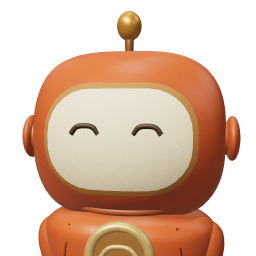
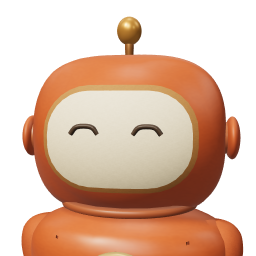
Refine portrait proportions and consolidate warm eye surfaces

diff --git a/src/scene/proxies.ts b/src/scene/proxies.ts
@@ -41,7 +41,7 @@ export function makeProxy(character: Character, kit: SceneKit): THREE.Group {
     characterStroke(kit, parent, color, points, radius, finish);
   const eyes = (parent: THREE.Object3D, separation: number, y: number, z: number, closed = false, color = ink, size = 1) => {
     [-1, 1].forEach(sign => {
-      const eye = closed ? characterEyeArc(kit, parent, color, [sign * separation, y, z], .043 * size, .026 * size)
+      const eye = closed ? characterEyeArc(kit, parent, color, [sign * separation, y, z], .043 * size, .026 * size, wayfinder?'warmInk':'ink')
         : sculpt(parent, 'detail', color, [sign * separation, y, z], [.061 * size, .082 * size, .025 * size], undefined, 'ink');
       data.eyes.push(eye);
       if (!closed) data.highlights.push(sculpt(parent, 'detail', '#fff8df', [sign * separation - .010 * size, y + .020 * size, z + .014 * size], [.015 * size, .019 * size, .007], undefined, 'glaze'));
@@ -57,7 +57,7 @@ export function makeProxy(character: Character, kit: SceneKit): THREE.Group {
   const limbs = (color: string, extremity: string, compact = false, robed = false) => {
     [-1, 1].forEach(sign => {
       if(!robed){
-        const arm = joint(body, sign < 0 ? 'arm_l' : 'arm_r', [sign * (compact ? .30 : .32), .16, 0]);
+        const arm = joint(body, sign < 0 ? 'arm_l' : 'arm_r', [sign * (compact ? .30 : .32), leader ? .26 : .16, 0]);
         sculpt(arm, 'limb', color, [sign * .003, -.13, 0], [compact ? .18 : .205, .37, .22], [0, 0, sign * -.13]);
         sculpt(arm, 'bean', id==='bridge-scout'?color:extremity, [0, -.29, .025], [.18, .18, .20]); data.arms.push(arm);
       }
@@ -87,6 +87,15 @@ export function makeProxy(character: Character, kit: SceneKit): THREE.Group {
       stroke(body, '#bda783', [[-.323, -.32, .235], [-.328, .08, .235], [-.312, .62, .235]], .005, 'clay');
       const facePanel=sculpt(head,'bowedCover','#e6d7b9',[0,-.021,.263],[.48,.31,.011],undefined,'paper');
       fitCharacterRelief(facePanel,cover,.002,.006);
+      const faceOutline:Array<[number,number,number]>=[];
+      for(let cornerIndex=0;cornerIndex<4;cornerIndex++)for(let step=0;step<3;step++){
+        const angle=cornerIndex*Math.PI/2+step*Math.PI/4;
+        const cx=cornerIndex===0||cornerIndex===3?.177:-.177,cy=cornerIndex<2?.075:-.117;
+        faceOutline.push([cx+Math.cos(angle)*.045,cy+Math.sin(angle)*.045,.272]);
+      }
+      faceOutline.push([...faceOutline[0]]);
+      const border=stroke(head,'#beaa89',faceOutline,.0022,'paper');border.name='keeper-face-border';
+      fitCharacterRelief(border,facePanel,.001,.002);
       eyes(head, .112, .018, .276, true, ink, 1.12);
       data.eyes.forEach(eye=>fitCharacterRelief(eye,facePanel,.002,.006));
       const corner=sculpt(head, 'pageCorner', '#fff4da', [.22, .10, .261], [.18, .19, .075], [0, 0, -.12], 'paper');
@@ -152,12 +161,15 @@ export function makeProxy(character: Character, kit: SceneKit): THREE.Group {
       expression.rotation.z=id==='hr-lens'?-.08:id==='hr-relay'?.09:-.01;
       data.head=expression;data.headY=.70;data.bodyY=body.position.y;
     } else {
-      if (leader) { body.position.y = .70; data.bodyY = .70; head.position.y = 1.30; data.headY = 1.30; }
+      // Jarvis's reference is a tall tapered ceramic body under a compact
+      // rounded helmet. Keep the base on its original floor contact while
+      // correcting the silhouette, rather than stretching the whole avatar.
+      if (leader) { body.position.y = .84; data.bodyY = .84; head.position.y = 1.48; data.headY = 1.48; head.scale.set(.84,.80,.86); }
       if (id === 'bridge-scout') {body.position.y=.45;data.bodyY=.45;head.position.y=.89;data.headY=.89;head.scale.set(.86,.92,.92);}
       if (wayfinder) {body.position.y=id==='intake-jarvis'?.535:.49;data.bodyY=body.position.y;head.position.y=id==='intake-jarvis'?1.02:.95;data.headY=head.position.y;}
-      sculpt(body, wayfinder ? 'wayfinderBody' : leader ? 'merchantTorso' : id==='bridge-scout'?'scoutBody':'torso', bodyColor, [0, -.005, 0], [wayfinder ? .85 : leader ? .79 : id==='bridge-scout'?.70:.64, leader ? 1.04 : id === 'intake-jarvis' ? 1.06 : wayfinder ? .96 : id==='bridge-scout' ? .68 : .87, wayfinder ? .64 : leader ? .54 : id==='bridge-scout'?.56:.50], undefined, wayfinder?'clay':'glaze');
-      if(leader) sculpt(body,'merchantBase','#bb673a',[0,-.58,0],[.73,.24,.56],undefined,'glaze');
-      if(leader)sculpt(body,'neckBand','#9d542f',[0,.29,0],[.52,.036,.43],undefined,'glaze');
+      sculpt(body, wayfinder ? 'wayfinderBody' : leader ? 'merchantTorso' : id==='bridge-scout'?'scoutBody':'torso', bodyColor, [0, -.005, 0], [wayfinder ? .85 : leader ? .79 : id==='bridge-scout'?.70:.64, leader ? 1.32 : id === 'intake-jarvis' ? 1.06 : wayfinder ? .96 : id==='bridge-scout' ? .68 : .87, wayfinder ? .64 : leader ? .54 : id==='bridge-scout'?.56:.50], undefined, wayfinder?'clay':'glaze');
+      if(leader) sculpt(body,'merchantBase','#bb673a',[0,-.72,0],[.73,.24,.56],undefined,'glaze');
+      if(leader)sculpt(body,'neckBand','#9d542f',[0,.38,0],[.52,.036,.43],undefined,'glaze');
       if(id==='bridge-scout')sculpt(body,'neckBand','#274b45',[0,.14,0],[.44,.036,.34],undefined,'glaze');
       if(wayfinder)sculpt(body,'neckBand','#b1a58e',[0,.22,0],[.55,.026,.40],undefined,'clay');
       sculpt(body, 'limb', wayfinder ? '#b6aa8c' : bodyColor, [0, .35, 0], [.18, .15, .18]);
@@ -178,7 +190,7 @@ export function makeProxy(character: Character, kit: SceneKit): THREE.Group {
         sculpt(head, 'paperWing', '#d4a05f', [0, .485, -.01], [.13, .24, .13], [0, 0, -.24], 'brass');
         sculpt(head, 'limb', '#527669', [0, .395, 0], [.04, .13, .04], undefined, 'brass');
       } else {
-        if (id === 'intake-compass') [-1, 1].forEach(sign => data.eyes.push(characterEyeArc(kit, head, '#ffe0a0', [sign * .121, .048, .365], .044, -.026)));
+        if (id === 'intake-compass') [-1, 1].forEach(sign => data.eyes.push(characterEyeArc(kit, head, '#ffe0a0', [sign * .121, .048, .365], .044, -.026,'warmInk')));
         else eyes(head, .121, .030, .365, true, wayfinder ? '#ffe0a0' : '#493a2d', leader?1.25:1);
         if(!wayfinder && !leader) characterSmile(kit, head, '#735131', .046, .023, [0, -.068, .365]);
         if (wayfinder) {
@@ -234,6 +246,7 @@ export function makeProxy(character: Character, kit: SceneKit): THREE.Group {
           stroke(body, '#e0bb7a', [[-.085, .11, .29], [-.045, .16, .29], [0, .17, .29], [.045, .16, .29], [.085, .11, .29]], .010);
           stroke(body,'#e0bb7a',[[-.113,.103,.293],[.113,.103,.293]],.007);
           const outline=stroke(body, '#854124', [[-.23,.23,.25],[-.27,-.11,.23],[-.20,-.35,.20],[-.07,-.43,.18],[.07,-.43,.18],[.20,-.35,.20],[.27,-.11,.23],[.23,.23,.25]], .005, 'clay');
+          outline.scale.y=1.32/1.04;
           fitCharacterRelief(outline,body.children[0] as THREE.Mesh,.003,.010);
           sculpt(head, 'limb', '#aa7442', [0, .394, 0], [.04, .14, .04], undefined, 'brass');
           sculpt(head, 'detail', '#d89a48', [0, .495, 0], [.112, .134, .112], undefined, 'brass');
@@ -264,7 +277,7 @@ export function makeProxy(character: Character, kit: SceneKit): THREE.Group {
         fitCharacterRelief(ornament,body.children[0] as THREE.Mesh,id==='intake-compass'?.036:.012);
       }
     }
-    group.scale.setScalar(leader ? 1.06 : id === 'bridge-scout' ? 1.03 : id === 'bridge-keeper' ? .97 : id === 'intake-jarvis' ? 1.16 : wayfinder ? .90 : id==='hr-lens'?.93:id==='hr-relay'?.92:hr ? .99 : 1.10);
+    group.scale.setScalar(leader ? 1.02 : id === 'bridge-scout' ? .93 : id === 'bridge-keeper' ? .97 : id === 'intake-jarvis' ? 1.16 : wayfinder ? .90 : id==='hr-lens'?.93:id==='hr-relay'?.92:hr ? .99 : 1.10);
     if(id==='bridge-keeper')group.scale.x*=.92;
     if(id==='hr-lens'||id==='hr-relay')group.scale.x*=1.07;
   } else if (kind === 'lantern') {

diff --git a/src/scene/performanceBatching.ts b/src/scene/performanceBatching.ts
@@ -400,17 +400,20 @@ export class SceneBatches {
 
   private materialKey(material: OpaqueMaterial, surfaceFactors = false, staticMap = false): string | null {
     const standard = (material as THREE.MeshStandardMaterial).isMeshStandardMaterial;
+    const pbr = standard ? material as THREE.MeshStandardMaterial : undefined;
+    // Eye ink is an immutable source finish. Activity-controlled lanterns
+    // retain independent uniforms and must never use this batching path.
+    const staticEmission = pbr?.userData.characterFinish === 'warmInk';
     const bump = standard ? (material as THREE.MeshStandardMaterial).bumpMap : null;
     // A shared immutable local character grain has ordinary UV semantics and
     // survives palette cloning. Arbitrary authored maps remain on their safe path.
     const sharedGrain = bump instanceof THREE.DataTexture && bump.userData.platopCharacterGrain === true;
     const grainColour = sharedGrain && material.map === bump;
-    if (material.transparent || material.opacity !== 1 || (standard && (material as THREE.MeshStandardMaterial).emissive.getHex() !== 0)
+    if (material.transparent || material.opacity !== 1 || (pbr && pbr.emissive.getHex() !== 0 && !staticEmission)
       || Object.entries(material).some(([name, value]) => name.endsWith('Map') && value && !(sharedGrain && name === 'bumpMap'))
       || (!staticMap && ((material.map && !grainColour) || material.alphaTest)) || material.clippingPlanes?.length
       || material.onBeforeCompile !== THREE.Material.prototype.onBeforeCompile
       || (material.type !== 'MeshStandardMaterial' && material.type !== 'MeshBasicMaterial')) return null;
-    const pbr = standard ? material as THREE.MeshStandardMaterial : undefined;
     return [material.type, surfaceFactors ? undefined : pbr?.roughness, surfaceFactors ? undefined : pbr?.metalness, material.side, material.shadowSide,
       pbr?.flatShading, material.vertexColors, material.fog, material.toneMapped, material.depthTest,
       material.depthWrite, material.depthFunc, material.colorWrite, material.polygonOffset, material.polygonOffsetFactor,
@@ -421,7 +424,8 @@ export class SceneBatches {
       material.blendEquationAlpha, material.blendColor.toArray().join(','), material.blendAlpha, pbr?.envMapIntensity,
       material.stencilWrite, material.stencilWriteMask, material.stencilFunc, material.stencilRef,
       material.stencilFuncMask, material.stencilFail, material.stencilZFail, material.stencilZPass,
-      sharedGrain ? bump.uuid : undefined, sharedGrain ? pbr?.bumpScale : undefined, grainColour].join(':');
+      sharedGrain ? bump.uuid : undefined, sharedGrain ? pbr?.bumpScale : undefined, grainColour,
+      staticEmission ? pbr?.emissive.toArray().join(',') : undefined, staticEmission ? pbr?.emissiveIntensity : undefined].join(':');
   }
 
   private unusedAttribute(name: string, material: OpaqueMaterial): boolean {

diff --git a/src/scene/characterGeometry.ts b/src/scene/characterGeometry.ts
@@ -7,7 +7,7 @@ export type CharacterForm = 'torso' | 'scoutBody' | 'helmet' | 'bridgeHelmet' | 
   | 'book' | 'bowedCover' | 'envelope' | 'cloak' | 'cape' | 'capePanel' | 'feather' | 'featherCore' | 'toe' | 'paperBody' | 'paperChestL' | 'paperChestR' | 'paperBackL' | 'paperBackR' | 'paperBrow' | 'paperEarL' | 'paperEarR' | 'paperEchoHead' | 'paperQuillHead' | 'paperWing' | 'paperTail' | 'paperDisc' | 'paperDiscL' | 'pageFold' | 'hoodTip' | 'scroll'
   | 'spiritBody' | 'spiritHood' | 'spiritRelayHood' | 'merchantTorso' | 'swiftBody' | 'swiftHead' | 'swiftTail' | 'swiftWingL' | 'swiftWingR' | 'paperOwlWingL' | 'paperOwlWingR' | 'paperHoldingWing' | 'paperCrownBackL' | 'paperCrownBackR' | 'wayfinderBody'
   | 'owlBrowL' | 'owlBrowR' | 'featherFanL' | 'featherFanR' | 'breastFeathers' | 'hexGlass' | 'hexCap' | 'hexBase' | 'fineRing' | 'compassStar' | 'compassNeedle' | 'compassPointer' | 'paperBeak' | 'pageCorner' | 'merchantBase' | 'spiritFigure' | 'spiritLens' | 'spiritRelay' | 'compassCowl' | 'lensCowl' | 'relayCowl';
-export type CharacterFinish = 'clay' | 'glaze' | 'ink' | 'brass' | 'amber' | 'paper' | 'feather' | 'facialFeather' | 'plumage' | 'cloth' | 'glass';
+export type CharacterFinish = 'clay' | 'glaze' | 'ink' | 'warmInk' | 'brass' | 'amber' | 'paper' | 'feather' | 'facialFeather' | 'plumage' | 'cloth' | 'glass';
 type Tuple = [number, number, number];
 const torsoProfile: Array<[number, number]> = [[0, -.5], [.32, -.48], [.45, -.37], [.50, -.10], [.49, .16], [.43, .34], [.29, .45], [.14, .49], [0, .5]];
 const wayfinderProfile: Array<[number,number]>=[[0,-.5],[.22,-.48],[.42,-.37],[.51,-.10],[.46,.08],[.29,.18],[.14,.235],[0,.26]];
@@ -863,6 +863,9 @@ export function characterMaterial(kit: SceneKit, color: string, finish: Characte
       roughness: finish === 'glass' ? .08 : finish === 'ink' ? .24 : finish === 'glaze' ? .38 : finish === 'brass' ? .32 : finish === 'amber' ? .38 : finish === 'paper'||finish==='cloth' ? .94 : finish === 'feather'||finish==='plumage' ? .88 : .76,
       metalness: finish === 'brass' ? .52 : 0,
       ...(finish === 'amber' ? { emissive: '#fff3c1', emissiveIntensity: .80, emissiveMap:glassGlow(kit), map:glassGlow(kit) } : {}),
+      // Source Wayfinder eyes are softly luminous strokes, not tiny lamps.
+      // Emission adds no light, bloom pass, transparency or animation.
+      ...(finish === 'warmInk' ? { emissive: '#ffc675', emissiveIntensity: .65, roughness: .62 } : {}),
     });
     material.userData.characterFinish = finish;
     if(finish==='glass'){material.transparent=true;material.opacity=.16;material.depthWrite=false;material.envMapIntensity=1.2;}

diff --git a/src/scene/environmentProps.ts b/src/scene/environmentProps.ts
@@ -442,7 +442,10 @@ export function plant(parent: THREE.Object3D, kit: SceneKit, x: number, z: numbe
   };
   const addLeaf = (index: number, position: Point, rotation: Point, scale: number) => {
     const leaf = new THREE.Mesh(geometry, materials[index % materials.length]); leaf.name = 'Cupped botanical leaf';
-    leaf.position.set(...position); leaf.rotation.set(...rotation); leaf.scale.set(scale * (0.9 + index % 3 * 0.06), scale, scale);
+    // Pitch around the branch's local axis before applying its azimuth.
+    // XYZ tilted every bough toward the same world direction, producing
+    // flat, paddle-like crowns even when the stems branched radially.
+    leaf.position.set(...position); leaf.rotation.set(...rotation, 'YXZ'); leaf.scale.set(scale * (0.9 + index % 3 * 0.06), scale, scale);
     leaf.castShadow = leaf.receiveShadow = true; canopy.add(leaf);
   };
   if (kind === 'ivy') {

diff --git a/docs/AVATAR-SURFACE-REVIEW.md b/docs/AVATAR-SURFACE-REVIEW.md
@@ -42,6 +42,8 @@ not asked for a desired score or instructed to approve.
 | 49 (Reflection and Email only) | Modest construction improvements; no new full-set grade | Cleaner broad chest folds and slightly improved bird neck; thick paper edges and lower-right rear feather overlaps remain |
 | 50 (Email only) | Clearer bird cheek/throat continuity; no new full-set grade | Eyes stay visible and no new clipping seen; rounded crown and stiff large wing plane still differ from source |
 | 52 (Reflection only) | Small edge-construction improvement; no new full-set grade | Thinner free wings and quieter lower jaw retained; broad solid-looking masses and a blade-like wing tip still differ from source |
+| 53 | Portraits 8.5/10 — B+; campus 8.2/10 — B; lighting 8.3/10 | Branch attachment improves; repeated horizontal leaf tiers, sparse furnishings, solid-looking paper faces and regular feather overlaps remain |
+| 55 (Merchant only) | 8.6/10 — B+; craft 8.5 / fidelity 8.7 / all-angle 8.5 | Better Jarvis/Scout hierarchy; existing dark seam remnants, rigid Keeper silhouette, glossy shoulders and short simplified arms remain |
 
 Passes not listed were internal corrective iterations, not independent approvals.
 Pass 17 keeps pass 16's visible forms while reducing five-sided botanical stems
@@ -237,6 +239,23 @@ Lantern Desk characters with zero pending requests, 123 draws and 829,340
 submitted triangles. No console warning/error was observed. This close-up
 runtime check uses the device clock and is not a matched performance sample.
 
+Pass 53 corrects botanical rotation order so each leaf's pitch follows its own
+branch. The full independent review found a net foliage improvement, but asked
+for varied pitch, spacing and curvature instead of horizontal oval tiers.
+Pass 54 adds warm, static Wayfinder eye ink and Keeper's fitted face border.
+Only that immutable eye finish may share emissive batches; variable lantern
+glows remain independent, and different emissive colors/intensities never merge.
+All 296 tests and the production build pass after this optimization.
+The wide view drops from 117 to 110 draw calls; no browser warning/error was
+observed in the isolated close-view check. This is a draw-count reduction, not
+a claim of increased frame rate.
+
+Pass 55 corrects Jarvis's torso-to-helmet ratio and Scout's smaller companion
+scale without widening the motor envelope. It retains the original standing
+height limit and floor contact. All 297 tests and the production build pass.
+An initial full-suite run overlapped portrait generation and correctly rejected
+the previous manifest; the complete rerun after generation passed.
+
 Same-machine isolated camera-only workload, no bridge or agent activity, 1000 ×
 800 CSS canvas, 1500 × 1200 backing pixels, two-second warmup and ten-second sample.
 Unchanged source was read from `271831b` into a temporary isolated checkout.
@@ -280,6 +299,10 @@ and is not treated as close-up evidence.
 | Pass 49 campus | 49.40 | 2.05 / 3.30 ms | 109 / 352,219 | 0 |
 | Pass 50 campus | 58.40 | 1.86 / 2.70 ms | 109 / 352,219 | 0 |
 | Pass 52 campus | 57.10 | 2.01 / 3.50 ms | 109 / 352,219 | 0 |
+| Pass 53 campus | 53.40 | 2.22 / 4.00 ms | 109 / 352,219 | 0 |
+| Pass 54 campus, before eye batching | 52.50 | 2.45 / 4.30 ms | 117 / 352,427 | 0 |
+| Pass 54 campus, after eye batching | 52.40 | 2.38 / 4.20 ms | 110 / 352,427 | 0 |
+| Pass 55 campus | 53.10 | 1.94 / 3.50 ms | 110 / 352,427 | 0 |
 | Baseline full-face close | 45.29 | 2.61 / 3.40 ms | 46 / 303,944 | 0 |
 | Pass 14 full-face close | 50.99 | 2.50 / 4.10 ms | 147 / 2,413,677 | 3 |
 | Pass 17 full-face close | 48.99 | 2.54 / 4.20 ms | 147 / 2,417,249 | 3 |
@@ -295,6 +318,9 @@ and is not treated as close-up evidence.
 | Pass 43 full-face close | 54.80 | 1.73 / 2.90 ms | 133 / 2,356,965 | 3 |
 | Pass 46 full-face close | 53.60 | 2.09 / 3.60 ms | 133 / 2,387,397 | 3 |
 | Pass 49 full-face close | 56.00 | 1.81 / 3.20 ms | 134 / 2,387,397 | 3 |
+| Pass 53 full-face close | 50.90 | 2.01 / 3.80 ms | 134 / 2,387,397 | 3 |
+| Pass 54 full-face close, before eye batching | 50.10 | 2.36 / 4.30 ms | 135 / 2,407,557 | 3 |
+| Pass 55 full-face close | 52.30 | 2.00 / 3.80 ms | 135 / 2,379,397 | 3 |
 
 The development-only close-room selector translates this same camera by the
 actual room-grid offsets, without changing any avatar. Additional material
@@ -314,6 +340,9 @@ Pass 50 Dispatch submitted 56.10 fps / 1.94 ms mean / 3.20 ms p95, with two
 dense avatars, 108 draws and 1,668,194 triangles.
 Pass 52 Lantern Desk submitted 57.50 fps / 1.88 ms mean / 3.50 ms p95, with
 three dense avatars, 122 draws and 810,080 triangles.
+Pass 54 Wayfinders submitted 51.49 fps / 2.35 ms mean / 4.20 ms p95 before eye
+batching (139 draws), and 53.21 fps / 2.18 ms / 4.00 ms afterward (138 draws).
+Both submitted 2,381,660 triangles with three dense avatars.
 
 These samples remain in the earlier performance range, but do not prove a speed
 increase or an unchanged worst case. The dense tier is deliberately not used for

diff --git a/design-qa.md b/design-qa.md
@@ -6,7 +6,7 @@ Current result: the stricter character-level reference pass is implemented and f
 
 The October 13 surface series supersedes the older captures and counts below.
 See [the complete surface review ledger](docs/AVATAR-SURFACE-REVIEW.md): the latest
-independent result is **8.5/10 B+ for portraits and 8.1/10 B for the campus**, not
+independent full-set result is **8.5/10 B+ for portraits and 8.2/10 B for the campus**, not
 the requested A. The original sections below describe the earlier checkpoint.
 
 All sixteen procedural characters now have exactly 100× authored triangles in
@@ -16,9 +16,9 @@ same model surfaces. Folded paper depth, feather winding, inset eye sockets,
 cape lining, Beacon's handle, rounded face aperture, foliage and wood finishes
 have been refined. No fake activity or observer authority was introduced.
 
-The current suite passes **286 tests** and the production build passes. The
-existing bundle-size warning remains. Matched full-face camera checks measured
-52.30 submitted scene fps with three dense avatars versus 45.29 baseline; these
+The pass-55 suite passes **297 tests** and the production build passes. The
+existing bundle-size warning remains. Pass 49's matched full-face camera check
+measured 56.00 submitted scene fps with three dense avatars versus 45.29 baseline; these
 are variable same-machine samples, not a GPU-completion or locked-frame-rate
 claim. Mobile header mask icons were repaired without removing their labels.
 
@@ -28,9 +28,13 @@ review acknowledged the clearer neutral orientations, heart-shaped owl face,
 bowed book covers, visible seating and localized lantern warmth. Pass 27 adds
 rounded tables and softer lantern highlights, but its review caught exposed wing
 supports and roots. Pass 31 corrects those, shortens the owl's toes, adds fine leaf
-veins and varies tabletop furnishings. Its independent review confirms the
-construction repair but still finds overly pointed feather layers, smooth felt,
-thick paper folds and insufficient furnishing/botanical richness. Its matched
+veins and varies tabletop furnishings. Passes 47–52 add matte Wayfinder finishes,
+continuous bird cheek planes and thinner exposed paper folds. Targeted reviews
+confirm local improvements. The full pass-53 review gives portraits **8.5/10**,
+campus **8.2/10** and lighting **8.3/10**. Pass 55's targeted Merchant review
+gives **8.6/10**, retaining the taller torso and smaller Scout. Remaining gaps
+include thick-looking paper masses, rear feather overlaps and insufficient
+furnishing/botanical richness. Pass 55's matched
 [noon](docs/images/surface-campus-noon.jpg) and
 [night](docs/images/surface-campus-night.jpg) captures supersede the older campus
 evidence below.
